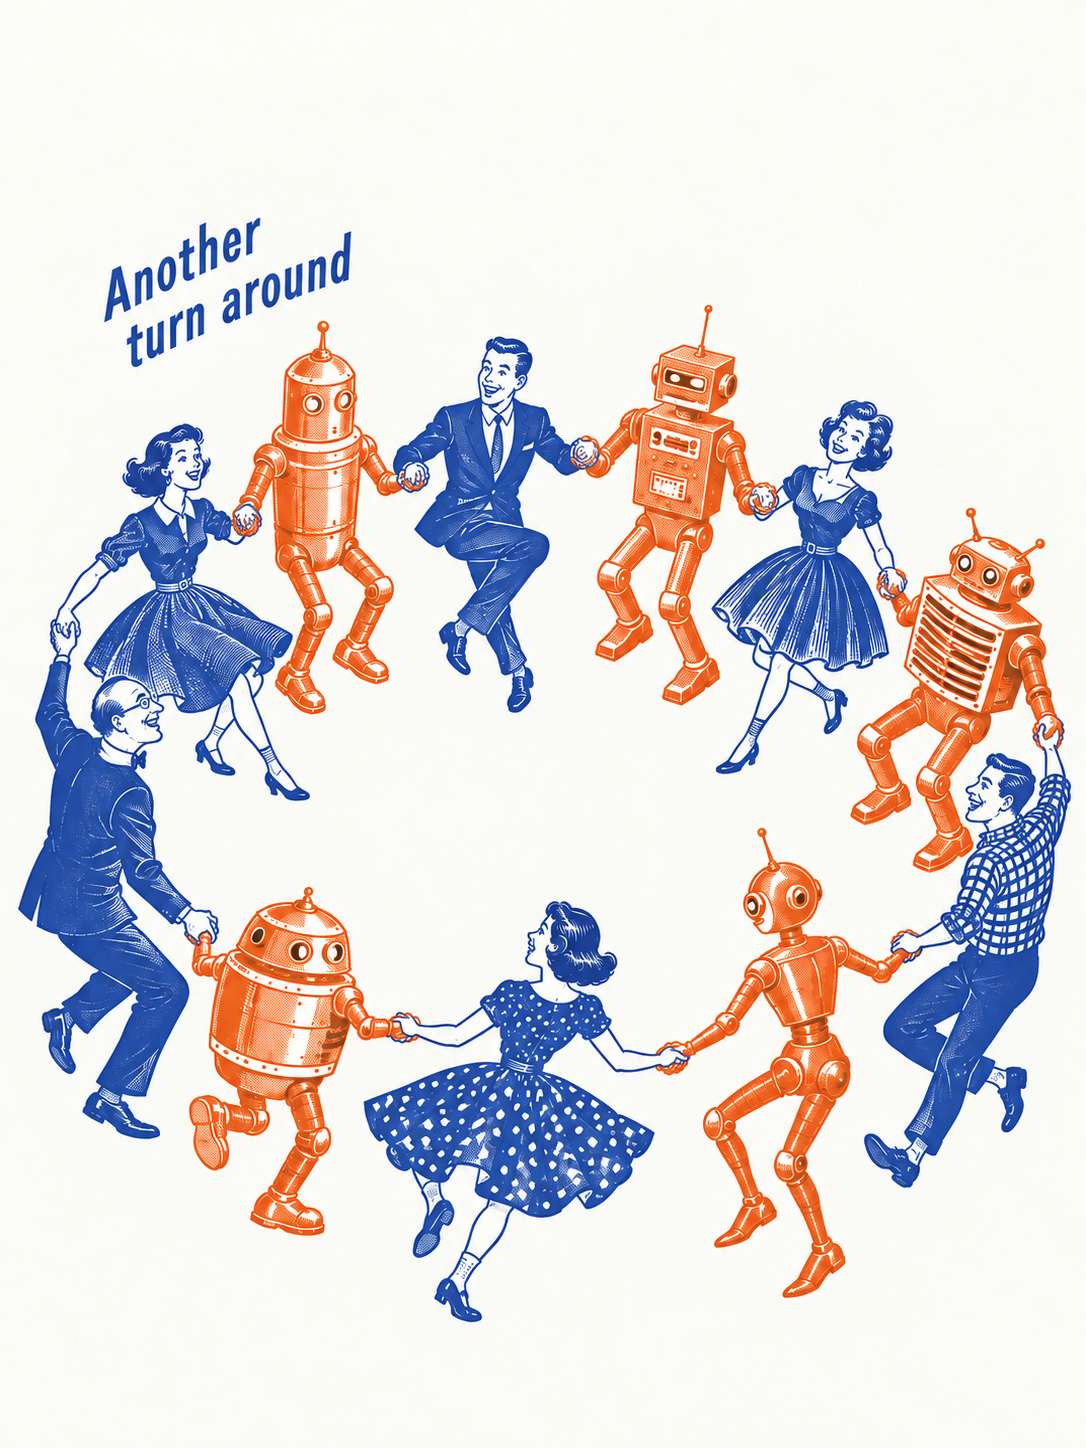
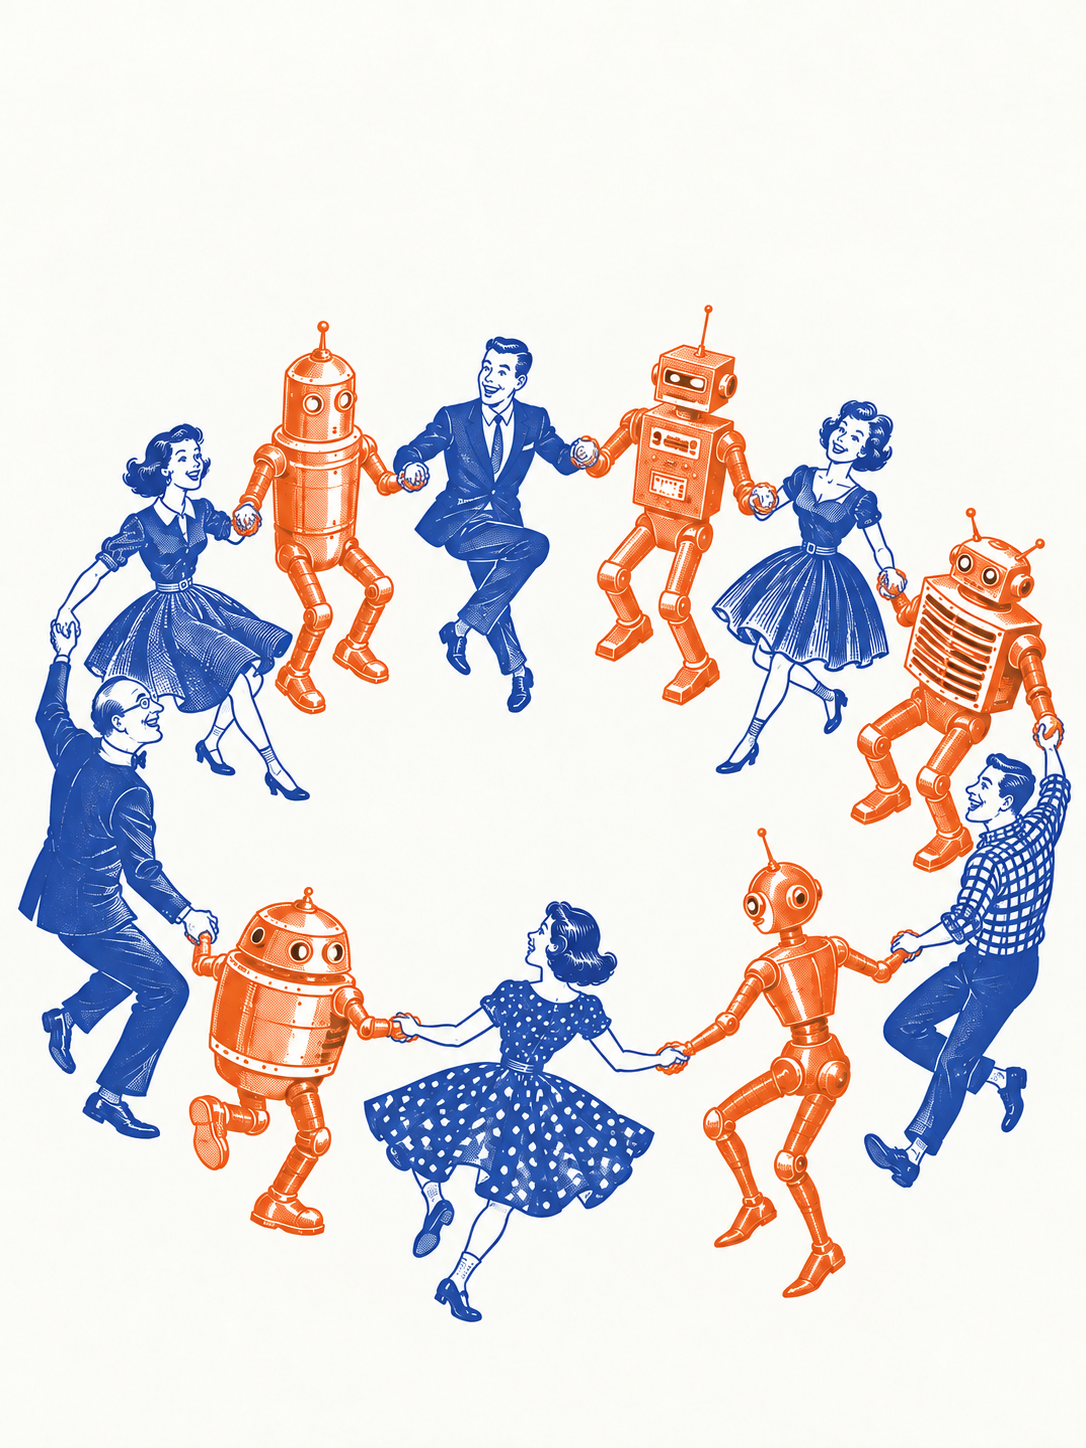
Remove illustration captions with local pixel edits

Changed region(s): [[0.0912, 0.1554, 0.3343, 0.2486]]

diff --git a/imagery/assets/catalog.js b/imagery/assets/catalog.js
@@ -2,7 +2,7 @@ window.imageryCatalog = [
   {
     "key": "man-and-robot",
     "title": "Man and robot",
-    "file": "assets/man-and-robot.png",
+    "file": "assets/man-and-robot.png?v=6ab0dc4c6a3d",
     "prompt": "assets/prompts/man-and-robot.txt",
     "alt": "A blue man and red retro robot looking over a rocket drawing.",
     "width": 1086,
@@ -11,7 +11,7 @@ window.imageryCatalog = [
   {
     "key": "woman-and-robot",
     "title": "Woman and robot",
-    "file": "assets/woman-and-robot.png",
+    "file": "assets/woman-and-robot.png?v=8b8afdbc8851",
     "prompt": "assets/prompts/woman-and-robot.txt",
     "alt": "A blue woman showing a folded paper shape to a red retro robot.",
     "width": 1086,
@@ -20,7 +20,7 @@ window.imageryCatalog = [
   {
     "key": "radio-lemonade",
     "title": "Radio and lemonade",
-    "file": "assets/radio-lemonade.png",
+    "file": "assets/radio-lemonade.png?v=f9ba014959fc",
     "prompt": "assets/prompts/radio-lemonade.txt",
     "alt": "A red 1960s radio with arms and legs serving lemonade to a reclining blue human.",
     "width": 1086,
@@ -29,7 +29,7 @@ window.imageryCatalog = [
   {
     "key": "red-stars",
     "title": "Blue sky, red stars",
-    "file": "assets/red-stars.png",
+    "file": "assets/red-stars.png?v=735930191eca",
     "prompt": "assets/prompts/red-stars.txt",
     "alt": "A blue human looking into a blue night sky filled with red stars.",
     "width": 1086,
@@ -38,7 +38,7 @@ window.imageryCatalog = [
   {
     "key": "holding-hands-cobalt-red",
     "title": "Taking strides",
-    "file": "assets/holding-hands-cobalt-red.png",
+    "file": "assets/holding-hands-cobalt-red.png?v=09e175be6ccf",
     "prompt": "assets/prompts/holding-hands-cobalt-red.txt",
     "alt": "Blue people and distinct red robots holding hands and taking cheerful strides across the page.",
     "width": 1672,
@@ -47,7 +47,7 @@ window.imageryCatalog = [
   {
     "key": "dancing-circle-cobalt-red",
     "title": "Dancing circle",
-    "file": "assets/dancing-circle-cobalt-red.png",
+    "file": "assets/dancing-circle-cobalt-red.png?v=ae26dd3bd47e",
     "prompt": "assets/prompts/dancing-circle-cobalt-red.txt",
     "alt": "Blue men and women holding hands with distinct red humanoid robots in a cheerful dancing circle.",
     "width": 1086,
@@ -56,7 +56,7 @@ window.imageryCatalog = [
   {
     "key": "holding-hands-botanical-oxblood",
     "title": "Taking strides",
-    "file": "assets/holding-hands-botanical-oxblood.png",
+    "file": "assets/holding-hands-botanical-oxblood.png?v=b99bd73846dc",
     "prompt": "assets/prompts/holding-hands-botanical-oxblood.txt",
     "alt": "Botanical Green people and distinct Oxblood robots holding hands and taking cheerful strides across the page.",
     "width": 1672,
@@ -65,7 +65,7 @@ window.imageryCatalog = [
   {
     "key": "dancing-circle-botanical-oxblood",
     "title": "Dancing circle",
-    "file": "assets/dancing-circle-botanical-oxblood.png",
+    "file": "assets/dancing-circle-botanical-oxblood.png?v=2097c074cc0e",
     "prompt": "assets/prompts/dancing-circle-botanical-oxblood.txt",
     "alt": "Botanical Green men and women holding hands with distinct Oxblood humanoid robots in a cheerful dancing circle.",
     "width": 1086,
@@ -74,7 +74,7 @@ window.imageryCatalog = [
   {
     "key": "holding-hands-ultramarine-orange",
     "title": "Taking strides",
-    "file": "assets/holding-hands-ultramarine-orange.png",
+    "file": "assets/holding-hands-ultramarine-orange.png?v=b5bce39e3a4b",
     "prompt": "assets/prompts/holding-hands-ultramarine-orange.txt",
     "alt": "Ultramarine people and distinct Safety Orange robots holding hands and taking cheerful strides across the page.",
     "width": 1672,
@@ -83,7 +83,7 @@ window.imageryCatalog = [
   {
     "key": "dancing-circle-ultramarine-orange",
     "title": "Dancing circle",
-    "file": "assets/dancing-circle-ultramarine-orange.png",
+    "file": "assets/dancing-circle-ultramarine-orange.png?v=e662032f3842",
     "prompt": "assets/prompts/dancing-circle-ultramarine-orange.txt",
     "alt": "Ultramarine men and women holding hands with distinct Safety Orange humanoid robots in a cheerful dancing circle.",
     "width": 1086,

diff --git a/imagery/index.html b/imagery/index.html
@@ -30,24 +30,24 @@
       <section id="people" data-imagery-panel data-title="People and robots" aria-label="People and robots">
         <div class="pair">
           <figure>
-            <a href="assets/man-and-robot.png"><img src="assets/man-and-robot.png" alt="A blue man and red retro robot looking over a rocket drawing." width="1086" height="1448"></a>
+            <a href="assets/man-and-robot.png?v=6ab0dc4c6a3d"><img src="assets/man-and-robot.png?v=6ab0dc4c6a3d" alt="A blue man and red retro robot looking over a rocket drawing." width="1086" height="1448"></a>
             <figcaption><span>Man and robot</span><a href="assets/prompts/man-and-robot.txt">Prompt</a></figcaption>
           </figure>
           <figure>
-            <a href="assets/woman-and-robot.png"><img src="assets/woman-and-robot.png" alt="A blue woman showing a folded paper shape to a red retro robot." width="1086" height="1448"></a>
+            <a href="assets/woman-and-robot.png?v=8b8afdbc8851"><img src="assets/woman-and-robot.png?v=8b8afdbc8851" alt="A blue woman showing a folded paper shape to a red retro robot." width="1086" height="1448"></a>
             <figcaption><span>Woman and robot</span><a href="assets/prompts/woman-and-robot.txt">Prompt</a></figcaption>
           </figure>
         </div>
       </section>
       <section id="lemonade" data-imagery-panel data-title="Lemonade" aria-label="Lemonade" hidden>
         <figure class="portrait">
-          <a href="assets/radio-lemonade.png"><img src="assets/radio-lemonade.png" alt="A red 1960s radio with arms and legs serving lemonade to a reclining blue human." width="1086" height="1448" loading="lazy"></a>
+          <a href="assets/radio-lemonade.png?v=f9ba014959fc"><img src="assets/radio-lemonade.png?v=f9ba014959fc" alt="A red 1960s radio with arms and legs serving lemonade to a reclining blue human." width="1086" height="1448" loading="lazy"></a>
           <figcaption><span>Radio and lemonade</span><a href="assets/prompts/radio-lemonade.txt">Prompt</a></figcaption>
         </figure>
       </section>
       <section id="stars" data-imagery-panel data-title="Stars" aria-label="Stars" hidden>
         <figure class="portrait">
-          <a href="assets/red-stars.png"><img src="assets/red-stars.png" alt="A blue human looking into a blue night sky filled with red stars." width="1086" height="1448" loading="lazy"></a>
+          <a href="assets/red-stars.png?v=735930191eca"><img src="assets/red-stars.png?v=735930191eca" alt="A blue human looking into a blue night sky filled with red stars." width="1086" height="1448" loading="lazy"></a>
           <figcaption><span>Blue sky, red stars</span><a href="assets/prompts/red-stars.txt">Prompt</a></figcaption>
         </figure>
       </section>
@@ -68,14 +68,14 @@
           </label>
         </div>
         <figure id="group-figure" data-layout="line">
-          <a href="assets/holding-hands-cobalt-red.png"><img id="group-image" src="assets/holding-hands-cobalt-red.png" alt="Blue people and distinct red robots holding hands and taking cheerful strides across the page." width="1672" height="941" loading="lazy"></a>
+          <a href="assets/holding-hands-cobalt-red.png?v=09e175be6ccf"><img id="group-image" src="assets/holding-hands-cobalt-red.png?v=09e175be6ccf" alt="Blue people and distinct red robots holding hands and taking cheerful strides across the page." width="1672" height="941" loading="lazy"></a>
           <figcaption><span id="group-caption">Taking strides</span><a id="group-prompt" href="assets/prompts/holding-hands-cobalt-red.txt">Prompt</a></figcaption>
         </figure>
       </section>
       <p class="recipe-link"><a href="assets/manifest.json">Image recipes</a></p>
     </main>
   </div>
-  <script src="assets/catalog.js"></script>
+  <script src="assets/catalog.js?v=text-free"></script>
   <script src="app.js"></script>
 </body>
 </html>

diff --git a/AGENTS.md b/AGENTS.md
@@ -5,3 +5,7 @@
 For software behavior, architecture, test, or UI work in this repository, use the `visual-dev-console` skill at `.agents/skills/visual-dev-console/SKILL.md`.
 
 Apply red/green TDD to behavior changes and keep the project-local `report.html` connected to real test runs. The report should help a person understand the architecture and workflows through actual inputs, outputs, test results, and screenshots for visual behavior, as described in the skill.
+
+## Imagery
+
+- Omit text inside illustrations unless explicitly requested. Override the mono-color skill's default captions for this project.
